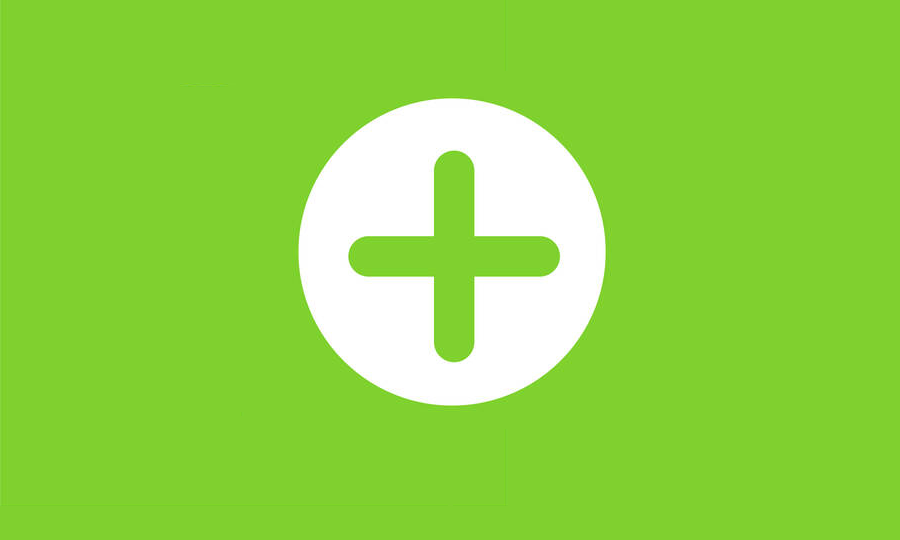
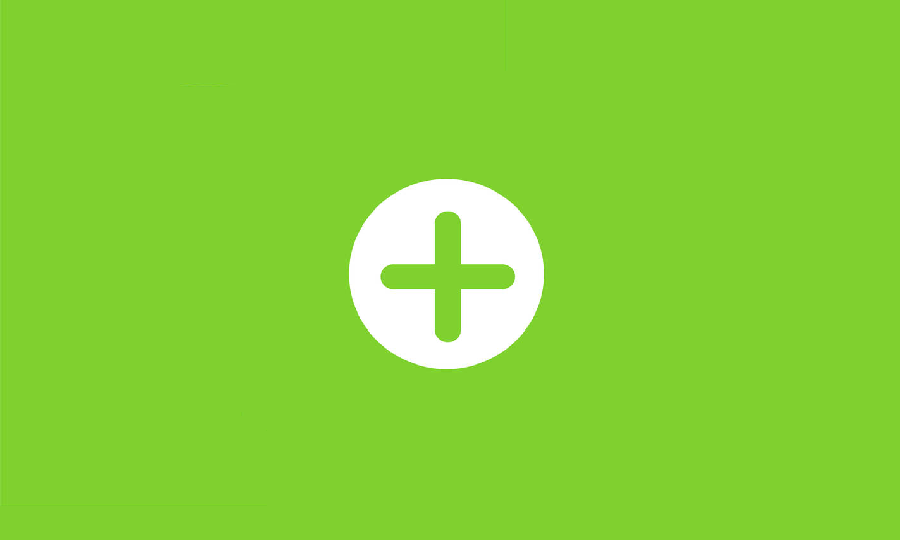
upload de imagens - por terminar

Changed region(s): [[0.3111, 0.1778, 0.6844, 0.7704]]

diff --git a/Site/novos trabalhos/assets/css/ollie.css b/Site/novos trabalhos/assets/css/ollie.css
@@ -2878,8 +2878,8 @@ textarea.form-control.is-invalid {
 }
 
 .btn {
-    width: 450px;
-    height: 10px;
+    width: 100%;
+    height: 70%;
     display: inline-block;
     font-weight: 400;
     color: #212529;
@@ -2889,8 +2889,8 @@ textarea.form-control.is-invalid {
     -moz-user-select: none;
     -ms-user-select: none;
     user-select: none;
-    background-color: transparent ;
-    background-size: auto;
+    background-image: url(../imgs/AdicionarImagem.jpg) ;
+    background-position: 50%;
     background-repeat: no-repeat;
     border: 1px solid transparent;
     padding: 0.375rem 0.75rem;
@@ -2958,8 +2958,6 @@ fieldset:disabled a.btn {
 .btn-primary:not(:disabled):not(.disabled).active,
 .show>.btn-primary.dropdown-toggle {
     color: #fff;
-    background-color: #ec3232;
-    border-color: #ea2727;
 }
 
 .btn-primary:not(:disabled):not(.disabled):active:focus,

diff --git a/Site/novos trabalhos/html/istoVaiSerOimage.html b/Site/novos trabalhos/html/istoVaiSerOimage.html
@@ -72,7 +72,6 @@
                 
                 <div class="content_image">
                     
-                        <img class="card-img-top" src="../assets/imgs/AdicionarImagem.jpg" >
                         <span class="card-body">
                             <div class="btn btn-primary btn-block btn-input" >
                                 <input type="file" accept="image/*" placeholder="Image" onchange="updatePhoto(event)">
@@ -86,7 +85,6 @@
                         
        
                  <div class="content_image">
-                        <img class="card-img-top" src="../assets/imgs/AdicionarImagem.jpg" >
                         <span class="card-body">
                             <div class="btn btn-primary btn-block btn-input" >
                                 <input type="file" accept="image/*" placeholder="Image" onchange="updatePhoto(event)">
